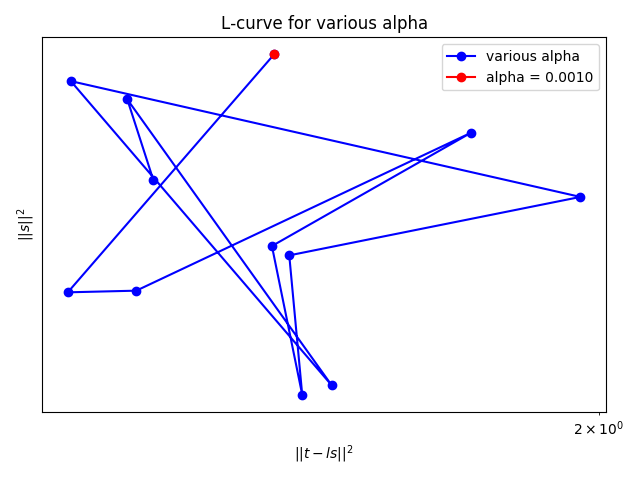
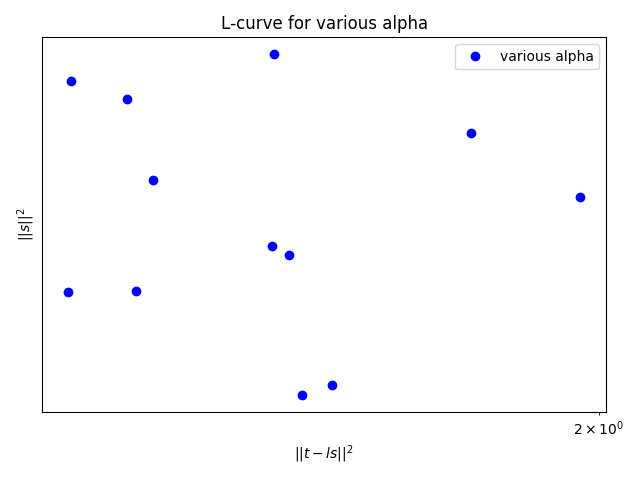
almost done HW5 report and applying backtracing in LM step length

diff --git a/HW05/pb3/regularization.py b/HW05/pb3/regularization.py
@@ -10,7 +10,7 @@ from scipy.ndimage import gaussian_filter, uniform_filter
 import utility, settings
 
 K_STOP = 10
-ALPHAS = np.logspace(-6.0, 6.0, num=12, base=10)
+ALPHAS = np.logspace(-5.0, 5.0, num=12, base=10)
 REPORT_LOG = {
     'alphas': [],
     'norm_model': [],
@@ -75,10 +75,20 @@ def main():
             ))
             pk = utility.smooth_map(pk, mode='uniform', kernel_size=(10, 40))
 
+            alphak = utility.get_proper_alpha(
+                t_obs, s_model, L, pk,
+                ALPHA0 = 1.0, ALPHA_DECAYRATE = 0.8,
+                method='backtrack'
+            )
             s_model = np.add(
                 s_model,
-                pk
+                np.multiply(alphak, pk)
             )
+            # s_model = np.add(
+            #     s_model,
+            #     pk
+            # )
+
             s_model = utility.prevent_negative_velocity(s_model)
             L = utility.get_l(s_model, recalculate=True)
             res = utility.get_r(t_obs, s_model, L)

diff --git a/HW05/pb3/analyze_L_curve.py b/HW05/pb3/analyze_L_curve.py
@@ -15,14 +15,14 @@ def main():
     print(f)
     f_corner = f[f.distance == f.distance.min()]
 
-    plt.plot(f['norm_res'], f['norm_model'], 'bo-', label="various alpha")
-    plt.plot(f_corner['norm_res'], f_corner['norm_model'], 'ro-', label="alpha = {:.4f}".format(float(f_corner['alpha'])))
+    plt.plot(f['norm_res'], f['norm_model'], 'bo', label="various alpha")
+    # plt.plot(f_corner['norm_res'], f_corner['norm_model'], 'ro-', label="alpha = {:.4f}".format(float(f_corner['alpha'])))
     plt.xlabel("$||t-ls||^2$")
     plt.ylabel("$||s||^2$")
-    plt.xscale('log')
-    plt.yscale('log')
+    # plt.xscale('log')
+    # plt.yscale('log')
     plt.title("L-curve for various alpha")
     plt.legend()
     plt.tight_layout()
-    # plt.savefig("l_curve.png")
-    plt.show()
+    plt.savefig("l_curve.png")
+    # plt.show()

diff --git a/HW05/utility.py b/HW05/utility.py
@@ -195,11 +195,9 @@ def smooth_map(s_real, kernel_size=(100, 100), mode='gaussian', pad_model='edge'
 '''
 line search
 '''
-def get_proper_alpha(t_obs, s0, L0, pk, method='backtrack'):
-    ALPHA0 = 1e-4
+def get_proper_alpha(t_obs, s0, L0, pk, ALPHA0 = 1e-4, ALPHA_DECAYRATE = 0.5, method='backtrack'):
     C = 0.1
     if method == 'backtrack':
-        ALPHA_DECAYRATE = 0.5
         alphak = ALPHA0
         while True:
             s1 = np.add(s0, np.multiply(alphak, pk))

diff --git a/HW05/main.py b/HW05/main.py
@@ -6,6 +6,6 @@ from pb3 import regularization, analyze_L_curve
 if __name__ == "__main__":
     # sd.main()
     # cg.main()
-    # regularization.main()
+    regularization.main()
     # eikonal.main()
-    analyze_L_curve.main()
+    # analyze_L_curve.main()

diff --git a/HW05/settings.py b/HW05/settings.py
@@ -11,7 +11,7 @@ STEP_SR = 1600.0
 FIX_S_Y = 40
 FIX_R_Y = 60
 
-is_reduce_size = False
+is_reduce_size = True
 FACTOR = 3
 if is_reduce_size:
     NX = int(NX/FACTOR)

diff --git a/HW05/README.md b/HW05/README.md
@@ -22,7 +22,7 @@ Where
 <a href="https://www.codecogs.com/eqnedit.php?latex=\begin{align*}&space;T^h_{x,\text{min}}&space;&=&space;\min(T^h_{i-1,j},&space;T^h_{i&plus;1,j})&space;\\&space;T^h_{y,\text{min}}&space;&=&space;\min(T^h_{i,j-1},&space;T^h_{i,j&plus;1})&space;\end{align*}" target="_blank"><img src="https://latex.codecogs.com/svg.latex?\begin{align*}&space;T^h_{x,\text{min}}&space;&=&space;\min(T^h_{i-1,j},&space;T^h_{i&plus;1,j})&space;\\&space;T^h_{y,\text{min}}&space;&=&space;\min(T^h_{i,j-1},&space;T^h_{i,j&plus;1})&space;\end{align*}" title="\begin{align*} T^h_{x,\text{min}} &= \min(T^h_{i-1,j}, T^h_{i+1,j}) \\ T^h_{y,\text{min}} &= \min(T^h_{i,j-1}, T^h_{i,j+1}) \end{align*}" /></a>
 </p>
 
-### Gauss-Seidei iterations 
+### Gauss-Seidei iterations
 The new travel time could be updated via
 
 <p align="center">
@@ -46,6 +46,8 @@ The amount of iteration could be either determined from a given maximum number o
     <img src="unit_test/travel_time_3.png" width="400px" >
 </p>
 
+[Source code](utility.py) of the travel time.
+
 ### Ray path
 A ray path be calculated from the travel time field from a source and a given regarded receiver position. The process is simply start with the point of receiver on the travel time field and compute a gradient to update the previous position of the ray until it reach to the source.
 
@@ -54,6 +56,8 @@ A ray path be calculated from the travel time field from a source and a given re
     <img src="unit_test/ray_path2.png" width="400px" >
     <br>
 </p>
+
+[Source code](ray.py) of a curved ray tracing.
 
 ### Real Velocity Map 
 <p align="center">
@@ -75,10 +79,89 @@ A ray path be calculated from the travel time field from a source and a given re
     <em>An example of the one pair of source-receiver from an initial velocity model</em>
 </p>
 
+The ray legnths in each pair of source-receiver could be parallelize into multiple threads that could easily implement with the built-in Python's multiprocessing to reduce the calculation time in each ray tracing that could taking the .
 
-## Pb 1 Steepest descent method with a back-tracking line search
+Note: All of the configuration is in this [file](settings.py).
 
+## Pb 1 Steepest descent method with a back-tracking line search ([Source](pb1/sd.py))
 
-## Pb 2 Nonlinear conjugate gradient method with the Wolfe conditions and quadratic/cubic interpolation for the line search
+<p align="center">
+    <img src="pb1/pk_k0.png" width="400px" >
+    <img src="pb1/pk_k9.png" width="400px" >
+    <br>
+    <em>The blurred gradient fields after applied a uniform filter kernel size of (10, 40)</em>
+</p>
+
+<p align="center">
+    <img src="pb1/model_v.png" width="400px" >
+    <img src="pb1/res.png" width="400px" >
+    <br>
+    <em>Results from hyper-parameters: alpha0=0.0001 and alpha_decay=0.5</em>
+</p>
+
+SD method with backtracing step length yield a reasonable result where we could see a remarkable band around x = 6000 and y ~ 8000 which agree to the real velocity map.
+
+## Pb 2 Nonlinear conjugate gradient method with the Wolfe conditions and quadratic/cubic interpolation for the line search ([Source](pb2/cg.py))
+
+<p align="center">
+    <img src="pb2/pk_k0.png" width="400px" >
+    <img src="pb2/pk_k19.png" width="400px" >
+    <br>
+    <em>The blurred gradient fields after applied a uniform filter kernel size of (10, 40)</em>
+</p>
+
+<p align="center">
+    <img src="pb2/model_v.png" width="400px" >
+    <img src="pb2/res.png" width="400px" >
+</p>
+
+The iteration that CG method with quad/cube interpolation step length reach to the minimum point much faster than SD method with backtracing. Nevertheless, a gradient field looks similar for both methods in an early iteration except for the latter iteration where it almost plateau in the loss figure.
 
 ## Pb 3 Marquardt-Levenberg method
+
+The line search direction from Newton's method are governed by
+<p align="center">
+<a href="https://www.codecogs.com/eqnedit.php?latex=\begin{align*}&space;(J^TJ)p^\text{N}_k&space;&\equiv&space;-J^Tr&space;\end{align*}" target="_blank"><img src="https://latex.codecogs.com/svg.latex?\begin{align*}&space;(J^TJ)p^\text{N}_k&space;&\equiv&space;-J^Tr&space;\end{align*}" title="\begin{align*} (J^TJ)p^\text{N}_k &\equiv -J^Tr \end{align*}" /></a>
+</p>
+
+The method of Gauss-Newton line search direction in non-linear least square could also be regularized by adding the constrain lambda in the hessian approximation term as
+<p align="center">
+<a href="https://www.codecogs.com/eqnedit.php?latex=\begin{align*}&space;(J^TJ&plus;\lambda&space;I)p^\text{LM}_k&space;&\equiv&space;-J^Tr&space;\\&space;p^\text{LM}_k&space;&=&space;-(J^TJ&plus;\lambda&space;I)^{-1}J^Tr&space;\end{align*}" target="_blank"><img src="https://latex.codecogs.com/svg.latex?\begin{align*}&space;(J^TJ&plus;\lambda&space;I)p^\text{LM}_k&space;&\equiv&space;-J^Tr&space;\\&space;p^\text{LM}_k&space;&=&space;-(J^TJ&plus;\lambda&space;I)^{-1}J^Tr&space;\end{align*}" title="\begin{align*} (J^TJ+\lambda I)p^\text{LM}_k &\equiv -J^Tr \\ p^\text{LM}_k &= -(J^TJ+\lambda I)^{-1}J^Tr \end{align*}" /></a>
+</p>
+
+The lambda factor is essentially one of the hyper-parameters that has to tune to the proper value.
+One way to determine the proper value lambda is to try various quantities and visual the L-Curve which the bottom is the proper hyper-parameter where it does not make the model overfitting the problem and vice versa.
+
+An overwhelming of memory allocation occurs in this problem. The easiest way to fix the problem without any modified the algorithm code is to reduce the size of velocity field as in the [settings](settings.py) file.
+
+### Results from various alpha
+Splitting the alpha parameters in the log-scale from xxx to xxx. The amount of trial alpha is 12. 
+
+<p align="center">
+    <img src="pb3/alpha0/model_v_alpha0.png" width="400px" >
+    <img src="pb3/alpha0/res.png" width="400px" >
+</p>
+<p align="center">
+    <img src="pb3/alpha1/model_v_alpha1.png" width="400px" >
+    <img src="pb3/alpha1/res.png" width="400px" >
+</p>
+<p align="center">
+    <img src="pb3/alpha6/model_v_alpha6.png" width="400px" >
+    <img src="pb3/alpha6/res.png" width="400px" >
+</p>
+<p align="center">
+    <img src="pb3/alpha10/model_v_alpha10.png" width="400px" >
+    <img src="pb3/alpha10/res.png" width="400px" >
+</p>
+<p align="center">
+    <img src="pb3/alpha11/model_v_alpha11.png" width="400px" >
+    <img src="pb3/alpha11/res.png" width="400px" >
+</p>
+
+### L-Curve
+<p align="center">
+    <img src="l_curve_unlog.png" width="400px" >
+    <img src="l_curve.png" width="400px" >
+    <br>
+    <em>L-Curve from various trial of alpha with log and linear scale</em>
+</p>
